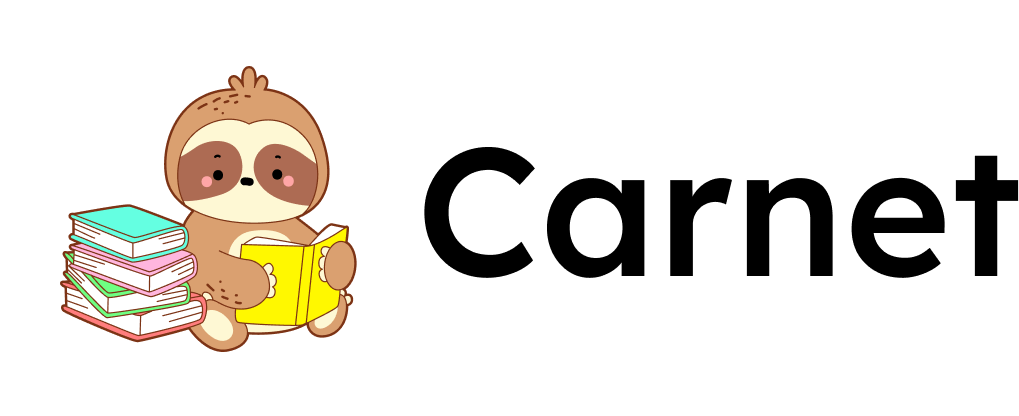
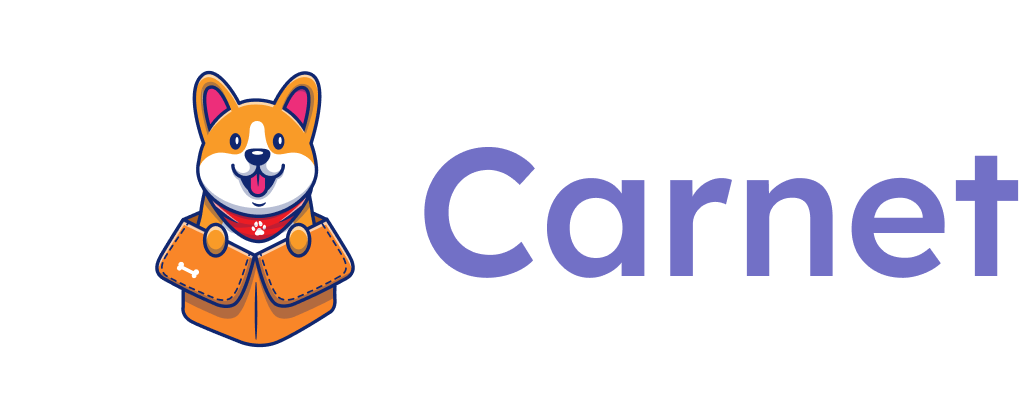
Update docs and change zod import (#26)

Changed region(s): [[0.0608, 0.1562, 0.3651, 0.8438], [0.3955, 0.3438, 1.0, 0.6875]]

diff --git a/src/lib/schemas.ts b/src/lib/schemas.ts
@@ -1,4 +1,4 @@
-import * as z from 'zod'
+import * as z from 'zod/v4'
 
 export const appConfigSchema: z.ZodDefault<
   z.ZodObject<
@@ -216,10 +216,7 @@ export const manifestSchema: z.ZodObject<{
       z.core.$strip
     >
   >
-  agents: z.ZodRecord<
-    z.ZodString,
-    typeof agentManifestSchema
-  >
+  agents: z.ZodRecord<z.ZodString, typeof agentManifestSchema>
   skills: z.ZodRecord<
     z.ZodString,
     z.ZodObject<
@@ -260,7 +257,9 @@ export const manifestSchema: z.ZodObject<{
   .object({
     version: z.number().default(1).describe('Version of the manifest schema'),
     app: appConfigSchema,
-    agents: z.record(agentManifestSchema.shape.name, agentManifestSchema).describe('Full list of agents'),
+    agents: z
+      .record(agentManifestSchema.shape.name, agentManifestSchema)
+      .describe('Full list of agents'),
     skills: z
       .record(
         skillSchema.shape.name,

diff --git a/docs/.vitepress/theme/custom.css b/docs/.vitepress/theme/custom.css
@@ -80,18 +80,18 @@ html.dark {
 }
 
 .VPHero .heading {
-  text-align: center;
-  align-items: center;
+  /* text-align: center;
+  align-items: center; */
   gap: 1.1rem;
 }
 .VPHero .name {
-  text-align: center;
+  /* text-align: center; */
   font-size: 5rem;
   font-weight: 600;
 }
 
 .VPHero .text {
-  text-align: center;
+  /* text-align: center; */
   font: 2.4rem / 1.3 var(--vp-font-family-base);
   font-weight: 600;
   /* max-width: unset; */
@@ -99,12 +99,13 @@ html.dark {
 }
 
 .VPHero .tagline {
-  text-align: center;
+  /* text-align: center; */
   max-width: none;
+  text-wrap: nowrap;
   font-size: 1.3rem;
   letter-spacing: -0.025em;
 }
-
+/* 
 .VPHero .actions {
   justify-content: center;
-}
+} */

diff --git a/README.md b/README.md
@@ -1,5 +1,9 @@
 # Carnet
 
+<div style="text-align: center;">
+<img src="./docs/public/carnet.svg" alt="Carnet" width="150"/>
+</div>
+
 > A framework for building AI agents with Vercel AI SDK using markdown-based content management
 
 **Carnet** (French for "notebook") is a production-ready framework for managing AI agent definitions, skills, toolsets, and tools through markdown files. Designed for **Vercel AI SDK**, it provides intelligent prompt generation and progressive skill loading to build scalable, context-aware AI agents.

diff --git a/docs/index.md b/docs/index.md
@@ -4,7 +4,10 @@ layout: home
 hero:
   name: "Carnet"
   text: "Manage your AI agents prompt using markdown"
-  tagline: Define, validate, and manage AI agents through markdown files
+  image:
+    src: /dog-running.svg
+    alt: Carnet
+  tagline: Define, validate, and manage agents through markdown files
   actions:
     - theme: brand
       text: Get Started

diff --git a/.changeset/cuddly-bushes-grin.md b/.changeset/cuddly-bushes-grin.md
@@ -1,0 +1,5 @@
+---
+"@upstart.gg/carnet": patch
+---
+
+Docs update
